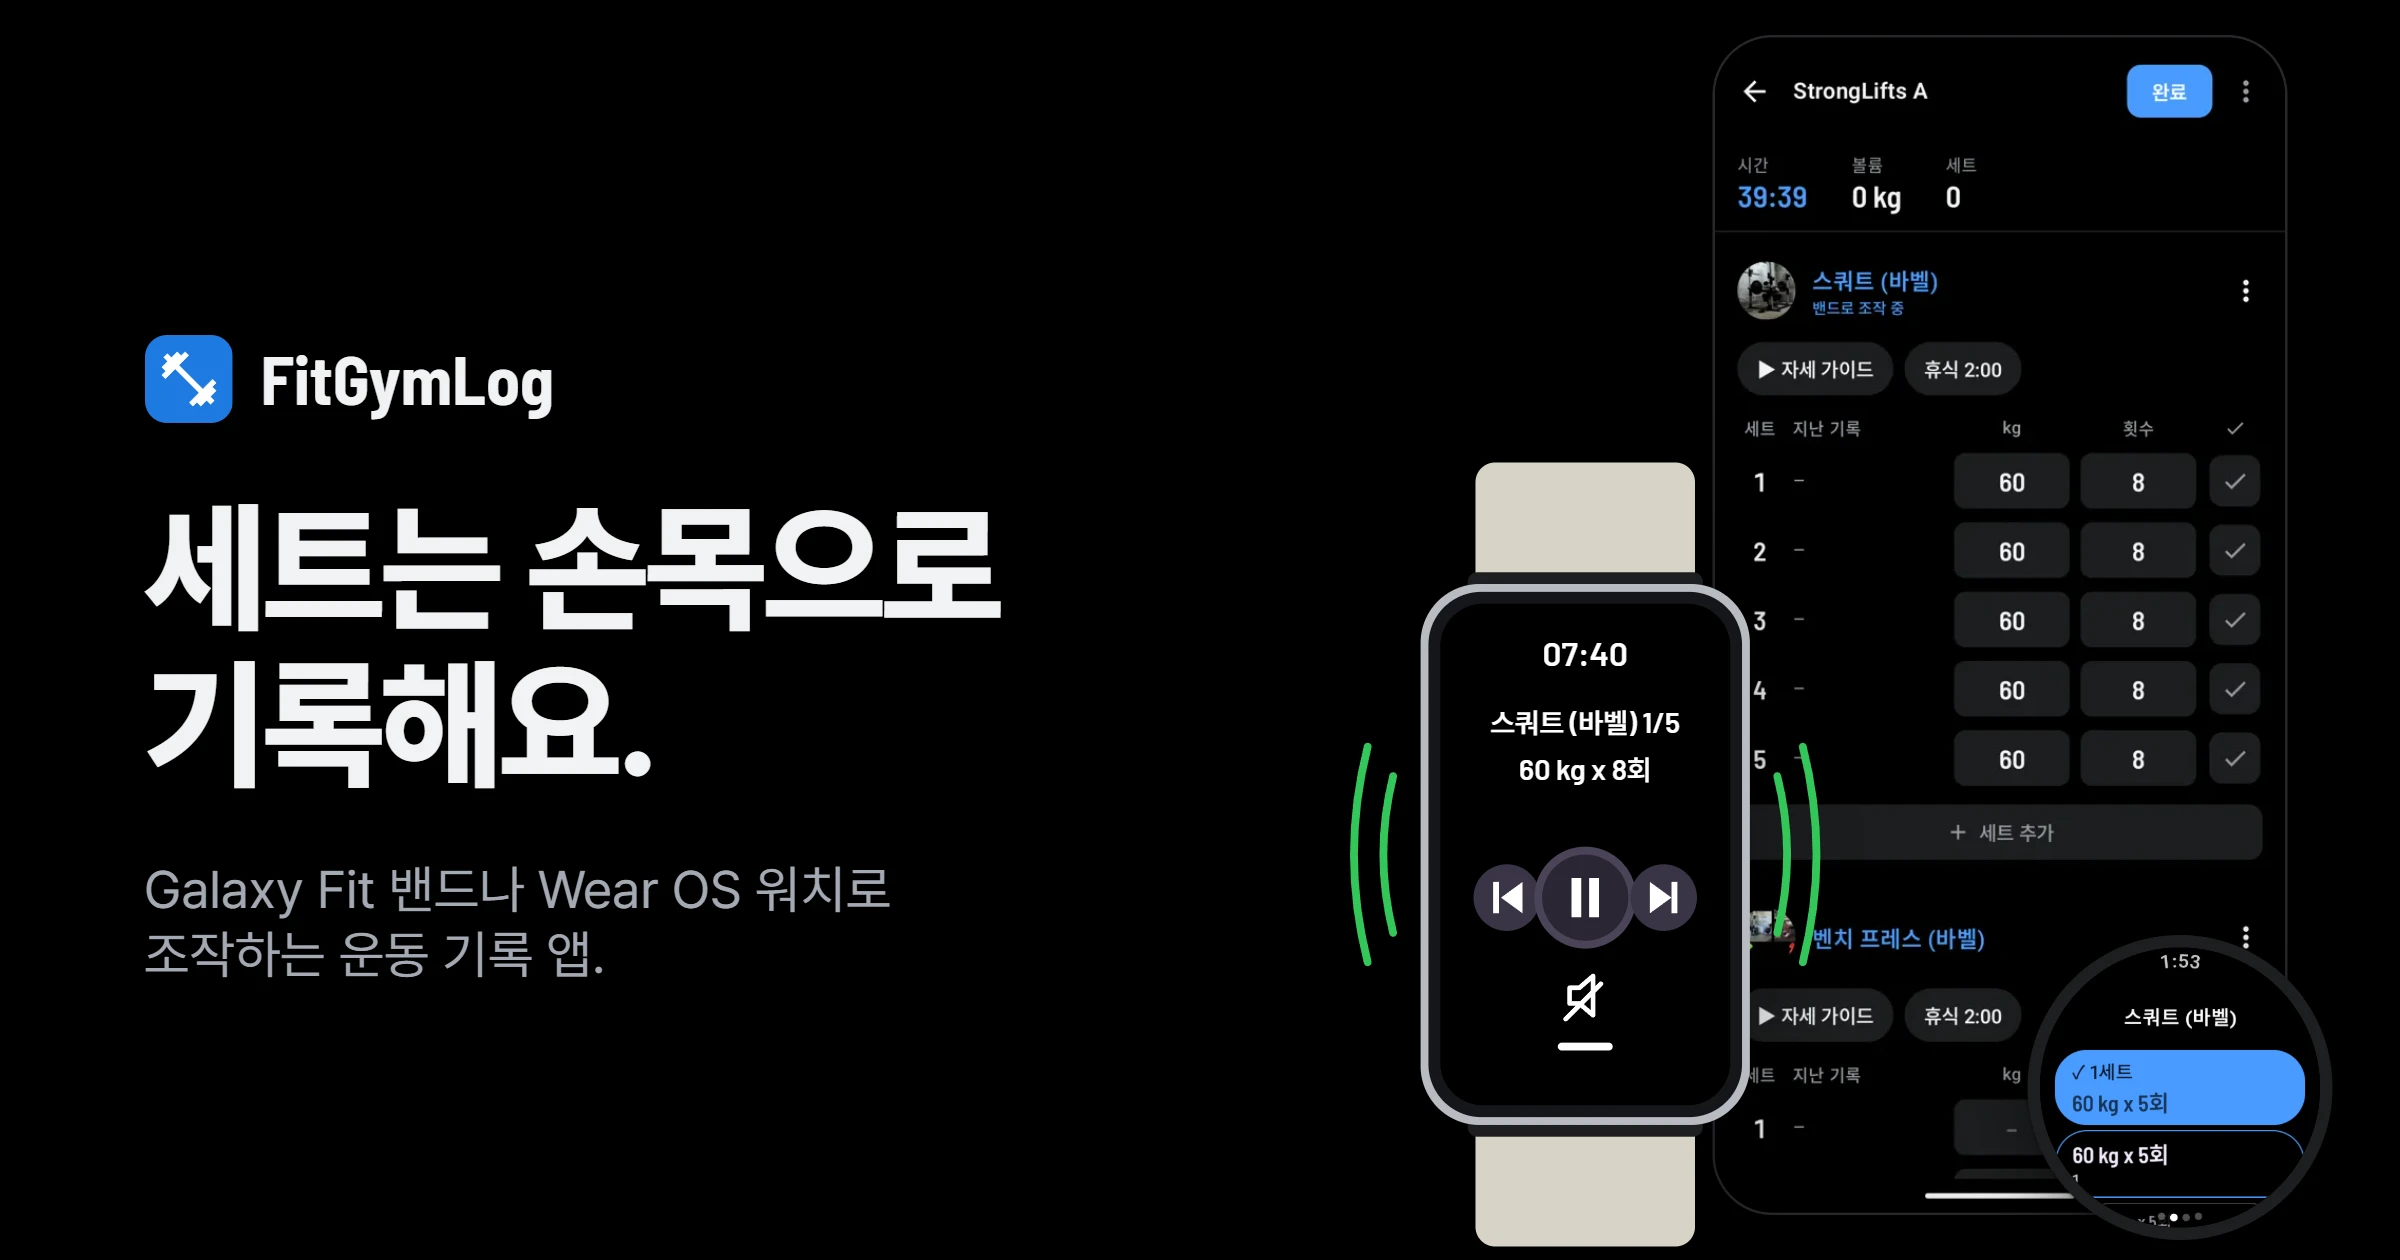
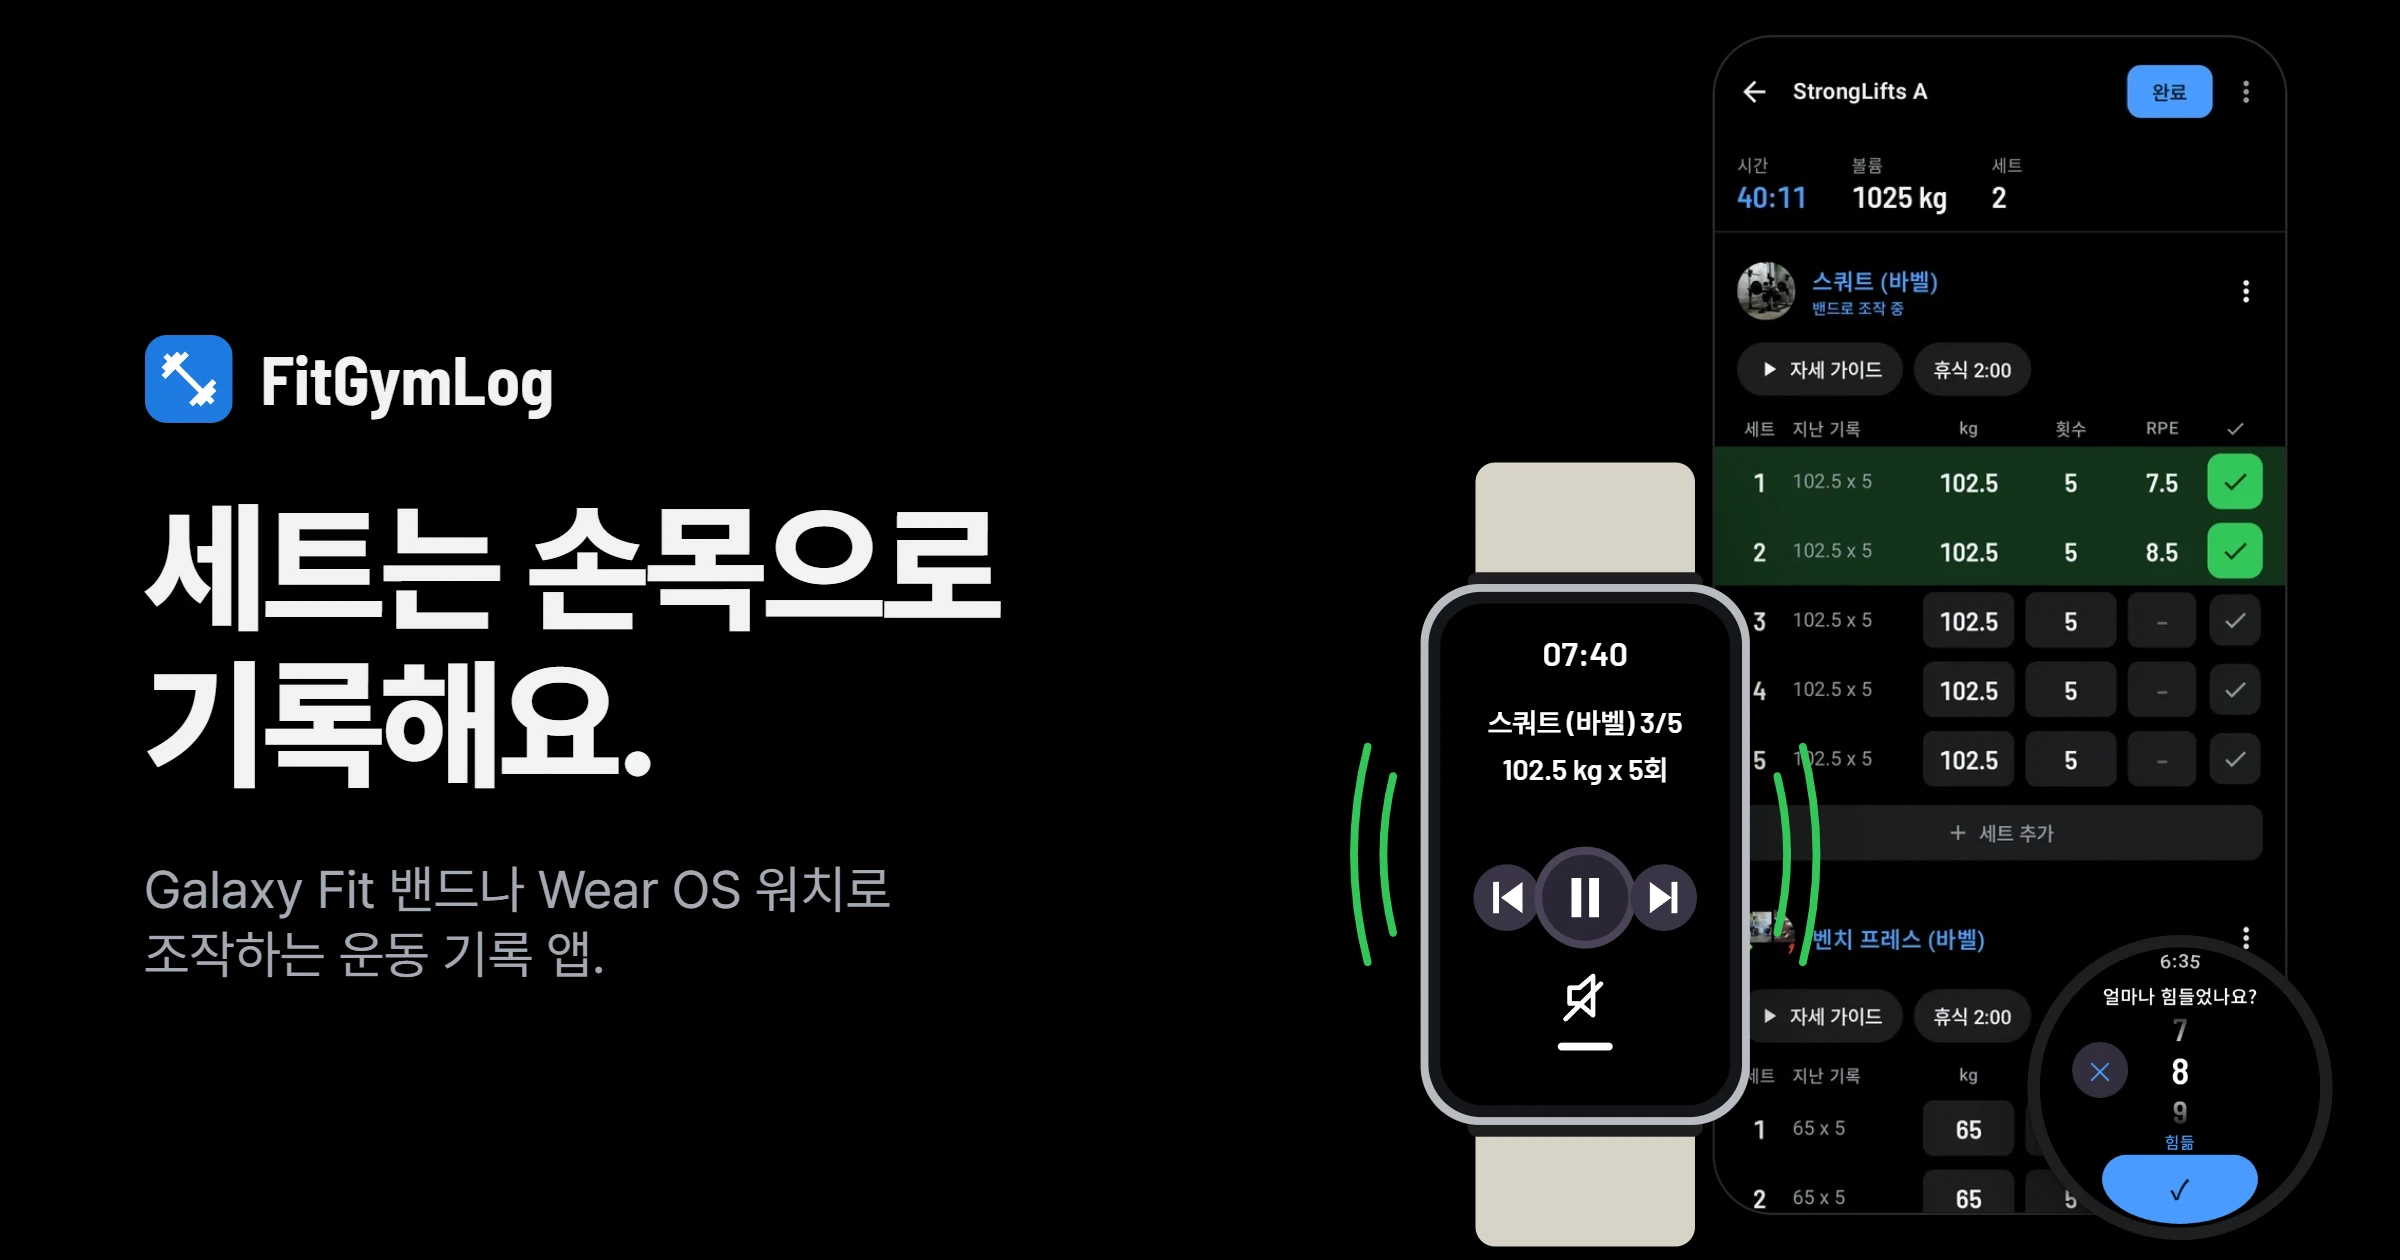
FitGymLog: effort and RPE on the thumbnail, the watch rating the workout and the phone logging RPE per set, as on the site for 0.9.3

diff --git a/thumbs/fitgymlog-ko.html b/thumbs/fitgymlog-ko.html
@@ -29,8 +29,8 @@
   <rect class="frame" x="36" y="62" width="168" height="276" rx="30"/><rect class="bezel" x="40" y="66" width="160" height="268" rx="27"/>
   <rect class="screen" x="46" y="72" width="148" height="256" rx="22"/>
   <text class="clock" x="120" y="104" text-anchor="middle">07:40</text>
-  <g clip-path="url(#fit3-screen)"><text class="title" x="120" y="138" text-anchor="middle">스쿼트 (바벨) 1/5</text></g>
-  <text class="sub" x="120" y="162" text-anchor="middle">60 kg x 8회</text>
+  <g clip-path="url(#fit3-screen)"><text class="title" x="120" y="138" text-anchor="middle">스쿼트 (바벨) 3/5</text></g>
+  <text class="sub" x="120" y="162" text-anchor="middle">102.5 kg x 5회</text>
   <circle class="btn" cx="80" cy="222" r="17"/><circle class="btn ring" cx="120" cy="222" r="24"/><circle class="btn" cx="160" cy="222" r="17"/>
   <path class="glyph" d="M73 214h3v16h-3zM88 214v16l-11-8z"/>
   <path class="glyph" d="M113 212h5v20h-5zM122 212h5v20h-5z"/>

diff --git a/thumbs/fitgymlog-en.html b/thumbs/fitgymlog-en.html
@@ -29,8 +29,8 @@
   <rect class="frame" x="36" y="62" width="168" height="276" rx="30"/><rect class="bezel" x="40" y="66" width="160" height="268" rx="27"/>
   <rect class="screen" x="46" y="72" width="148" height="256" rx="22"/>
   <text class="clock" x="120" y="104" text-anchor="middle">07:40</text>
-  <g clip-path="url(#fit3-screen)"><text class="title" x="120" y="138" text-anchor="middle">Squat (Barbell) 1/5</text></g>
-  <text class="sub" x="120" y="162" text-anchor="middle">60 kg x 8</text>
+  <g clip-path="url(#fit3-screen)"><text class="title" x="120" y="138" text-anchor="middle">Squat (Barbell) 3/5</text></g>
+  <text class="sub" x="120" y="162" text-anchor="middle">102.5 kg x 5</text>
   <circle class="btn" cx="80" cy="222" r="17"/><circle class="btn ring" cx="120" cy="222" r="24"/><circle class="btn" cx="160" cy="222" r="17"/>
   <path class="glyph" d="M73 214h3v16h-3zM88 214v16l-11-8z"/>
   <path class="glyph" d="M113 212h5v20h-5zM122 212h5v20h-5z"/>
